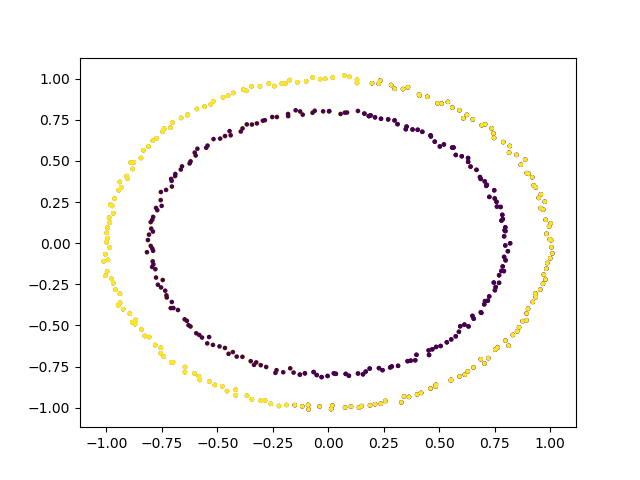
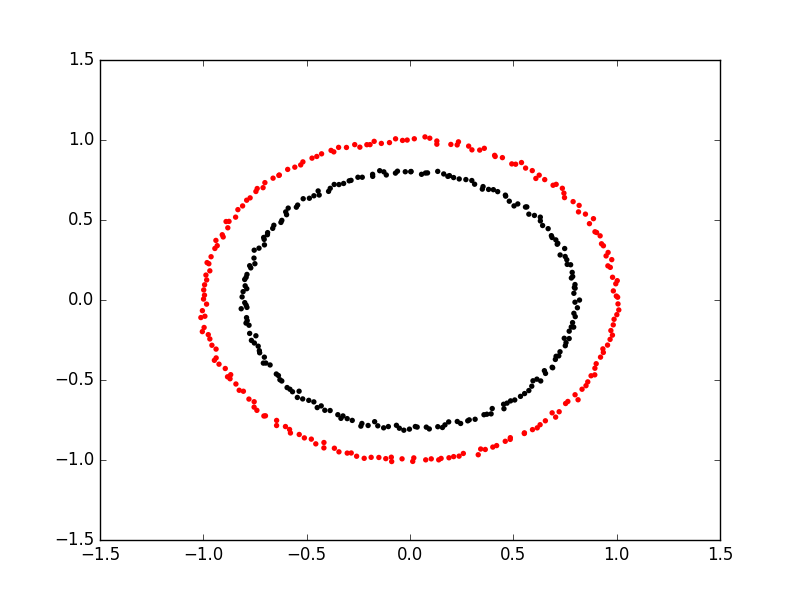
3d graphs for clustering

diff --git a/code/sklearn-spectral_clustering.py b/code/sklearn-spectral_clustering.py
@@ -1,7 +1,36 @@
 #!/usr/bin/env python3
 import matplotlib.pyplot as plt
+import matplotlib
+import mpl_toolkits.mplot3d as plt3d
 import sklearn.cluster as skl_cluster
 import sklearn.datasets as skl_data
+import numpy as np
+
+
+def plot_3d_separation(circles,labels):
+
+    #create two empty arrays for the points inside a list
+    circles2 = [np.zeros([200,3]),np.zeros([200,3])]
+
+    circle_indicies = [0,0]
+    for i in range(0,400):
+        x = circles[i][0]
+        y = circles[i][1]
+        label = labels[i]
+        j = circle_indicies[label]
+        circles2[label][j][0] = x
+        circles2[label][j][1] = y
+        circles2[label][j][2] = label
+        circle_indicies[label] = circle_indicies[label] + 1
+
+    fig = plt.figure()
+    ax = fig.gca(projection='3d')
+    ax.scatter(circles2[0][:, 0],circles2[0][:, 1],circles2[0][:, 2],c=matplotlib.cm.flag(0))
+    ax.scatter(circles2[1][:, 0],circles2[1][:, 1],circles2[1][:, 2],c=matplotlib.cm.flag(255))
+
+    plt.show()
+    #plt3d.Axes3D.plot(x,y,labels)
+
 
 
 def cluster_circles():
@@ -19,34 +48,17 @@ def cluster_circles():
     clusters = Kmean.predict(circles)
 
     # plot the data, colouring it by cluster
-   # plt.scatter(circles[:, 0], circles[:, 1], s=5, c=clusters)
+    plt.scatter(circles[:, 0], circles[:, 1], s=15, linewidth=0.1, c=clusters,cmap='flag')
+    plt.show()
 
     model = skl_cluster.SpectralClustering(n_clusters=2,
                                            affinity='nearest_neighbors',
                                            assign_labels='kmeans')
 
     labels = model.fit_predict(circles)
-#    plt.scatter(circles[:, 0], circles[:, 1], s=5, c=labels)
-
-    import numpy as np
-
-
-    #create two empty arrays for the points inside a list
-    circles2 = [np.zeros([200,2]),np.zeros([200,2])]
-
-    circle_indicies = [0,0]
-    for i in range(0,400):
-        x = circles[i][0]
-        y = circles[i][1]
-        label = labels[i]
-        j = circle_indicies[label]
-        circles2[label][j][0] = x
-        circles2[label][j][1] = y
-        circle_indicies[label] = circle_indicies[label] + 1
-
-
-    print(circles2[0])
-
-    plt.scatter(circles2[1][:, 0], circles2[1][:, 1], s=5)
+    print(labels)
+    plt.scatter(circles[:, 0], circles[:, 1], s=15, linewidth=0, c=labels, cmap='flag')
+    plt.show()
+    plot_3d_separation(circles,labels)
 
 cluster_circles()
